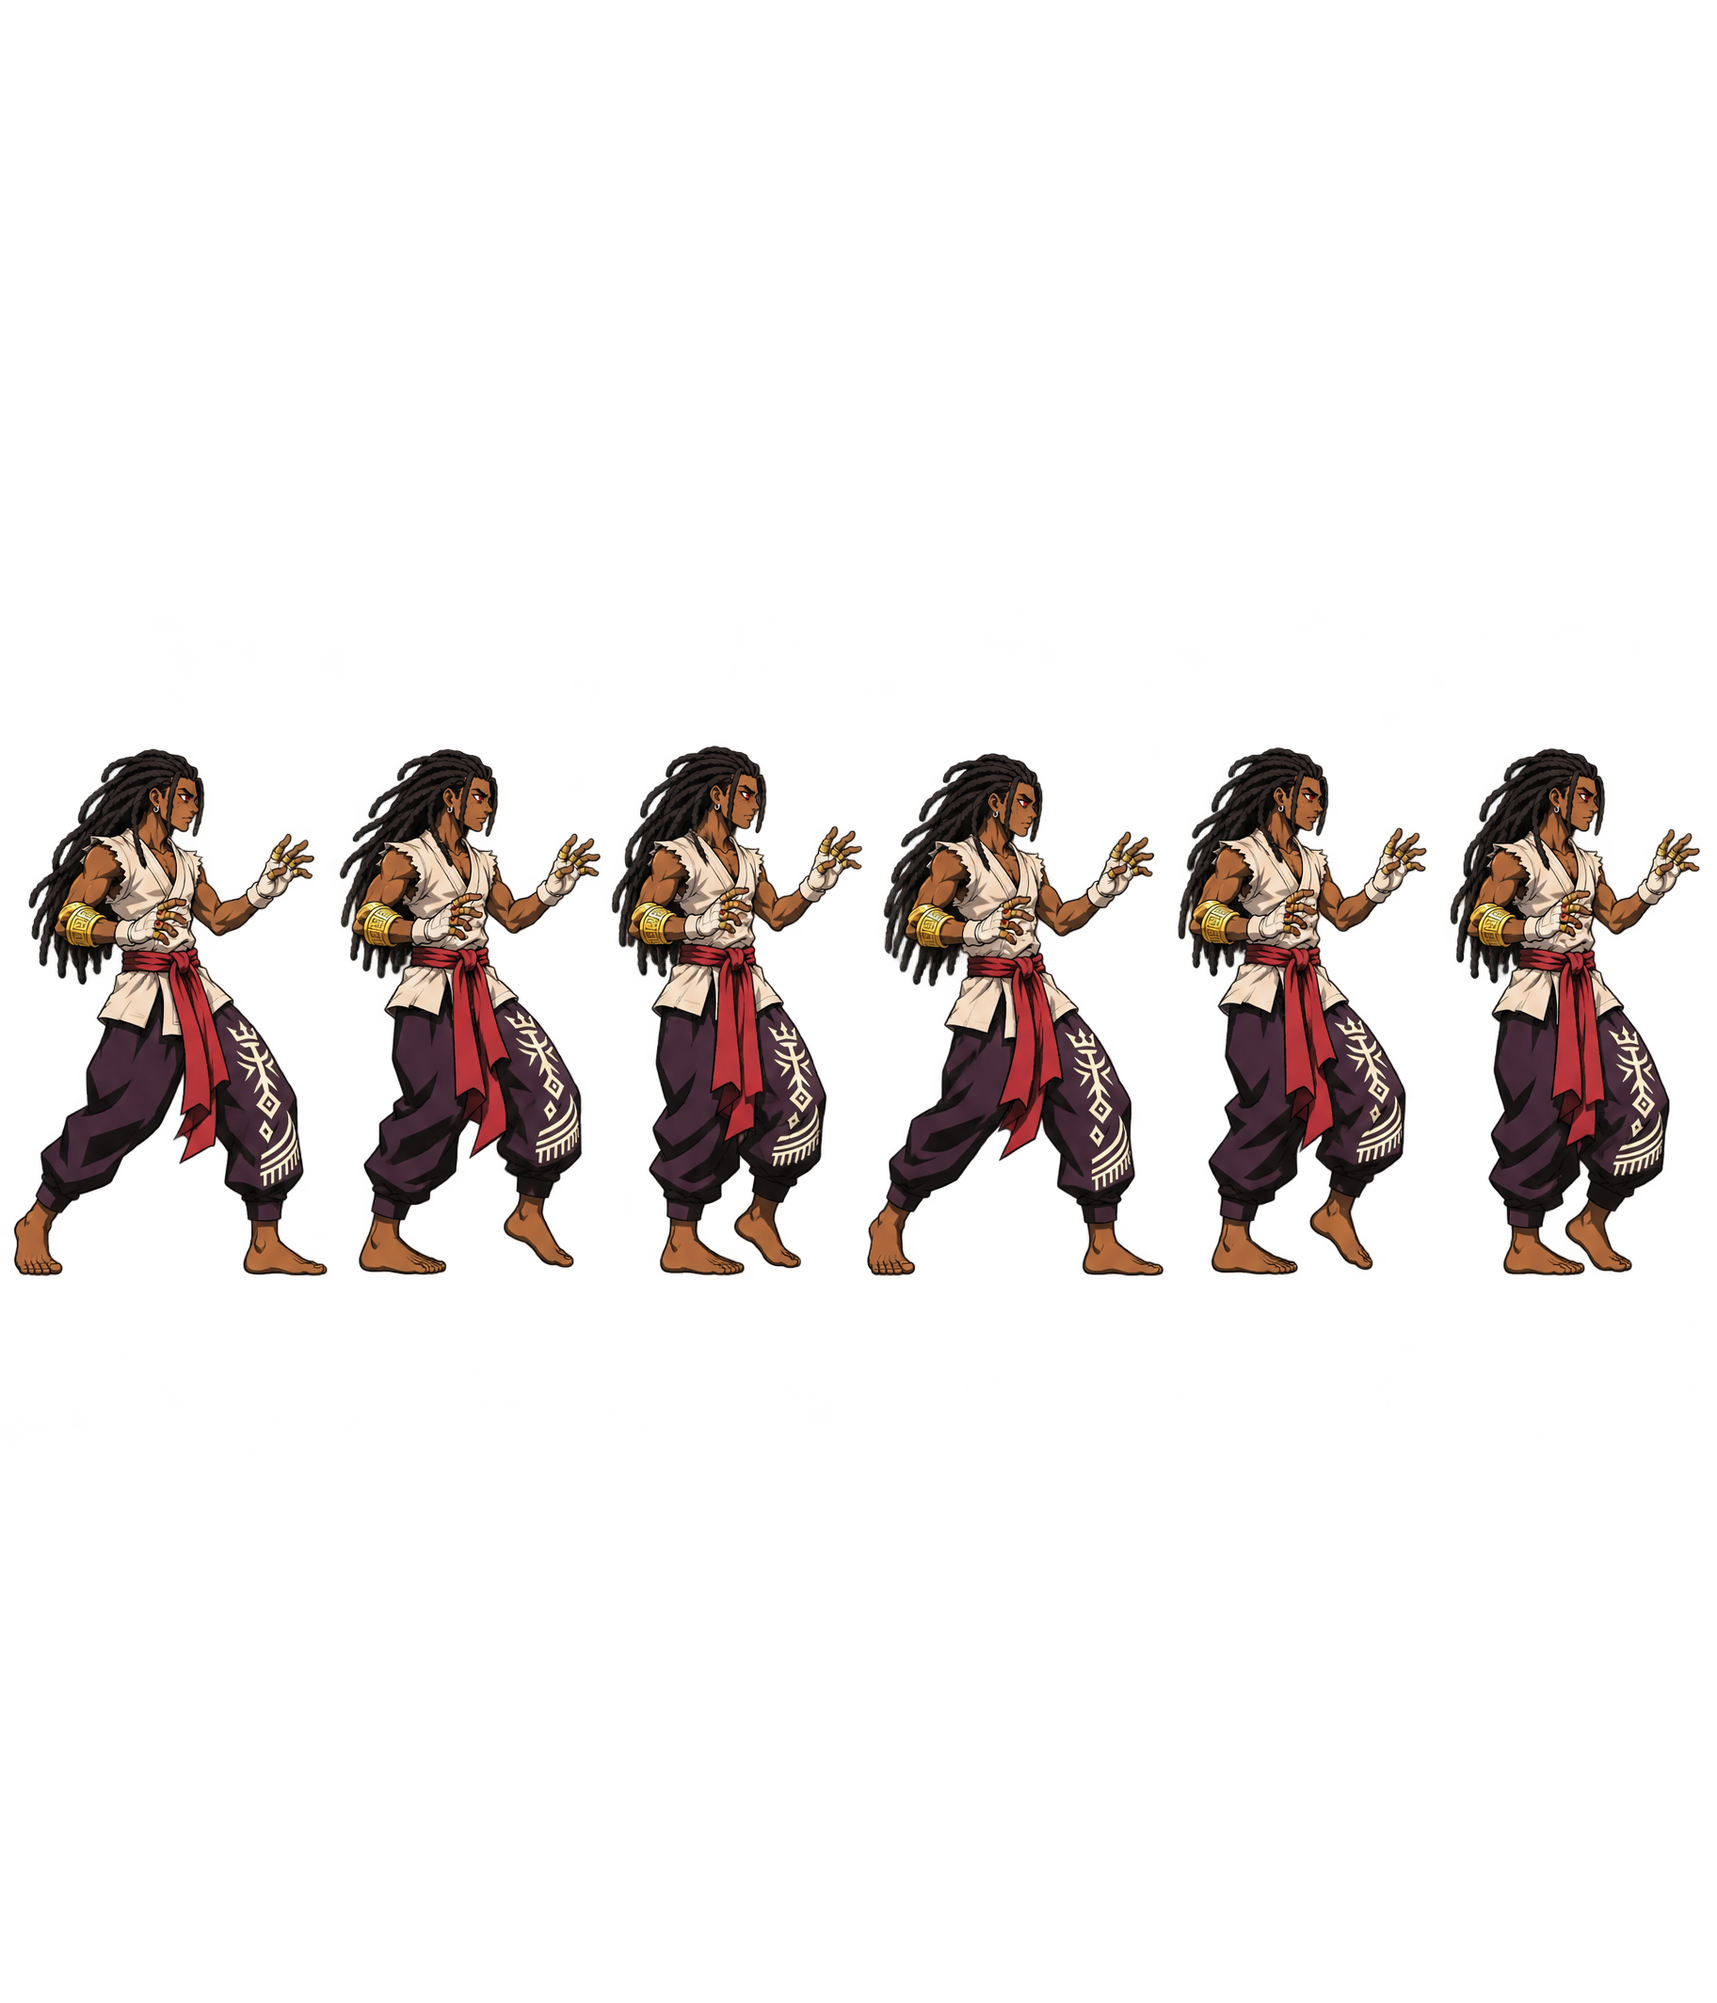
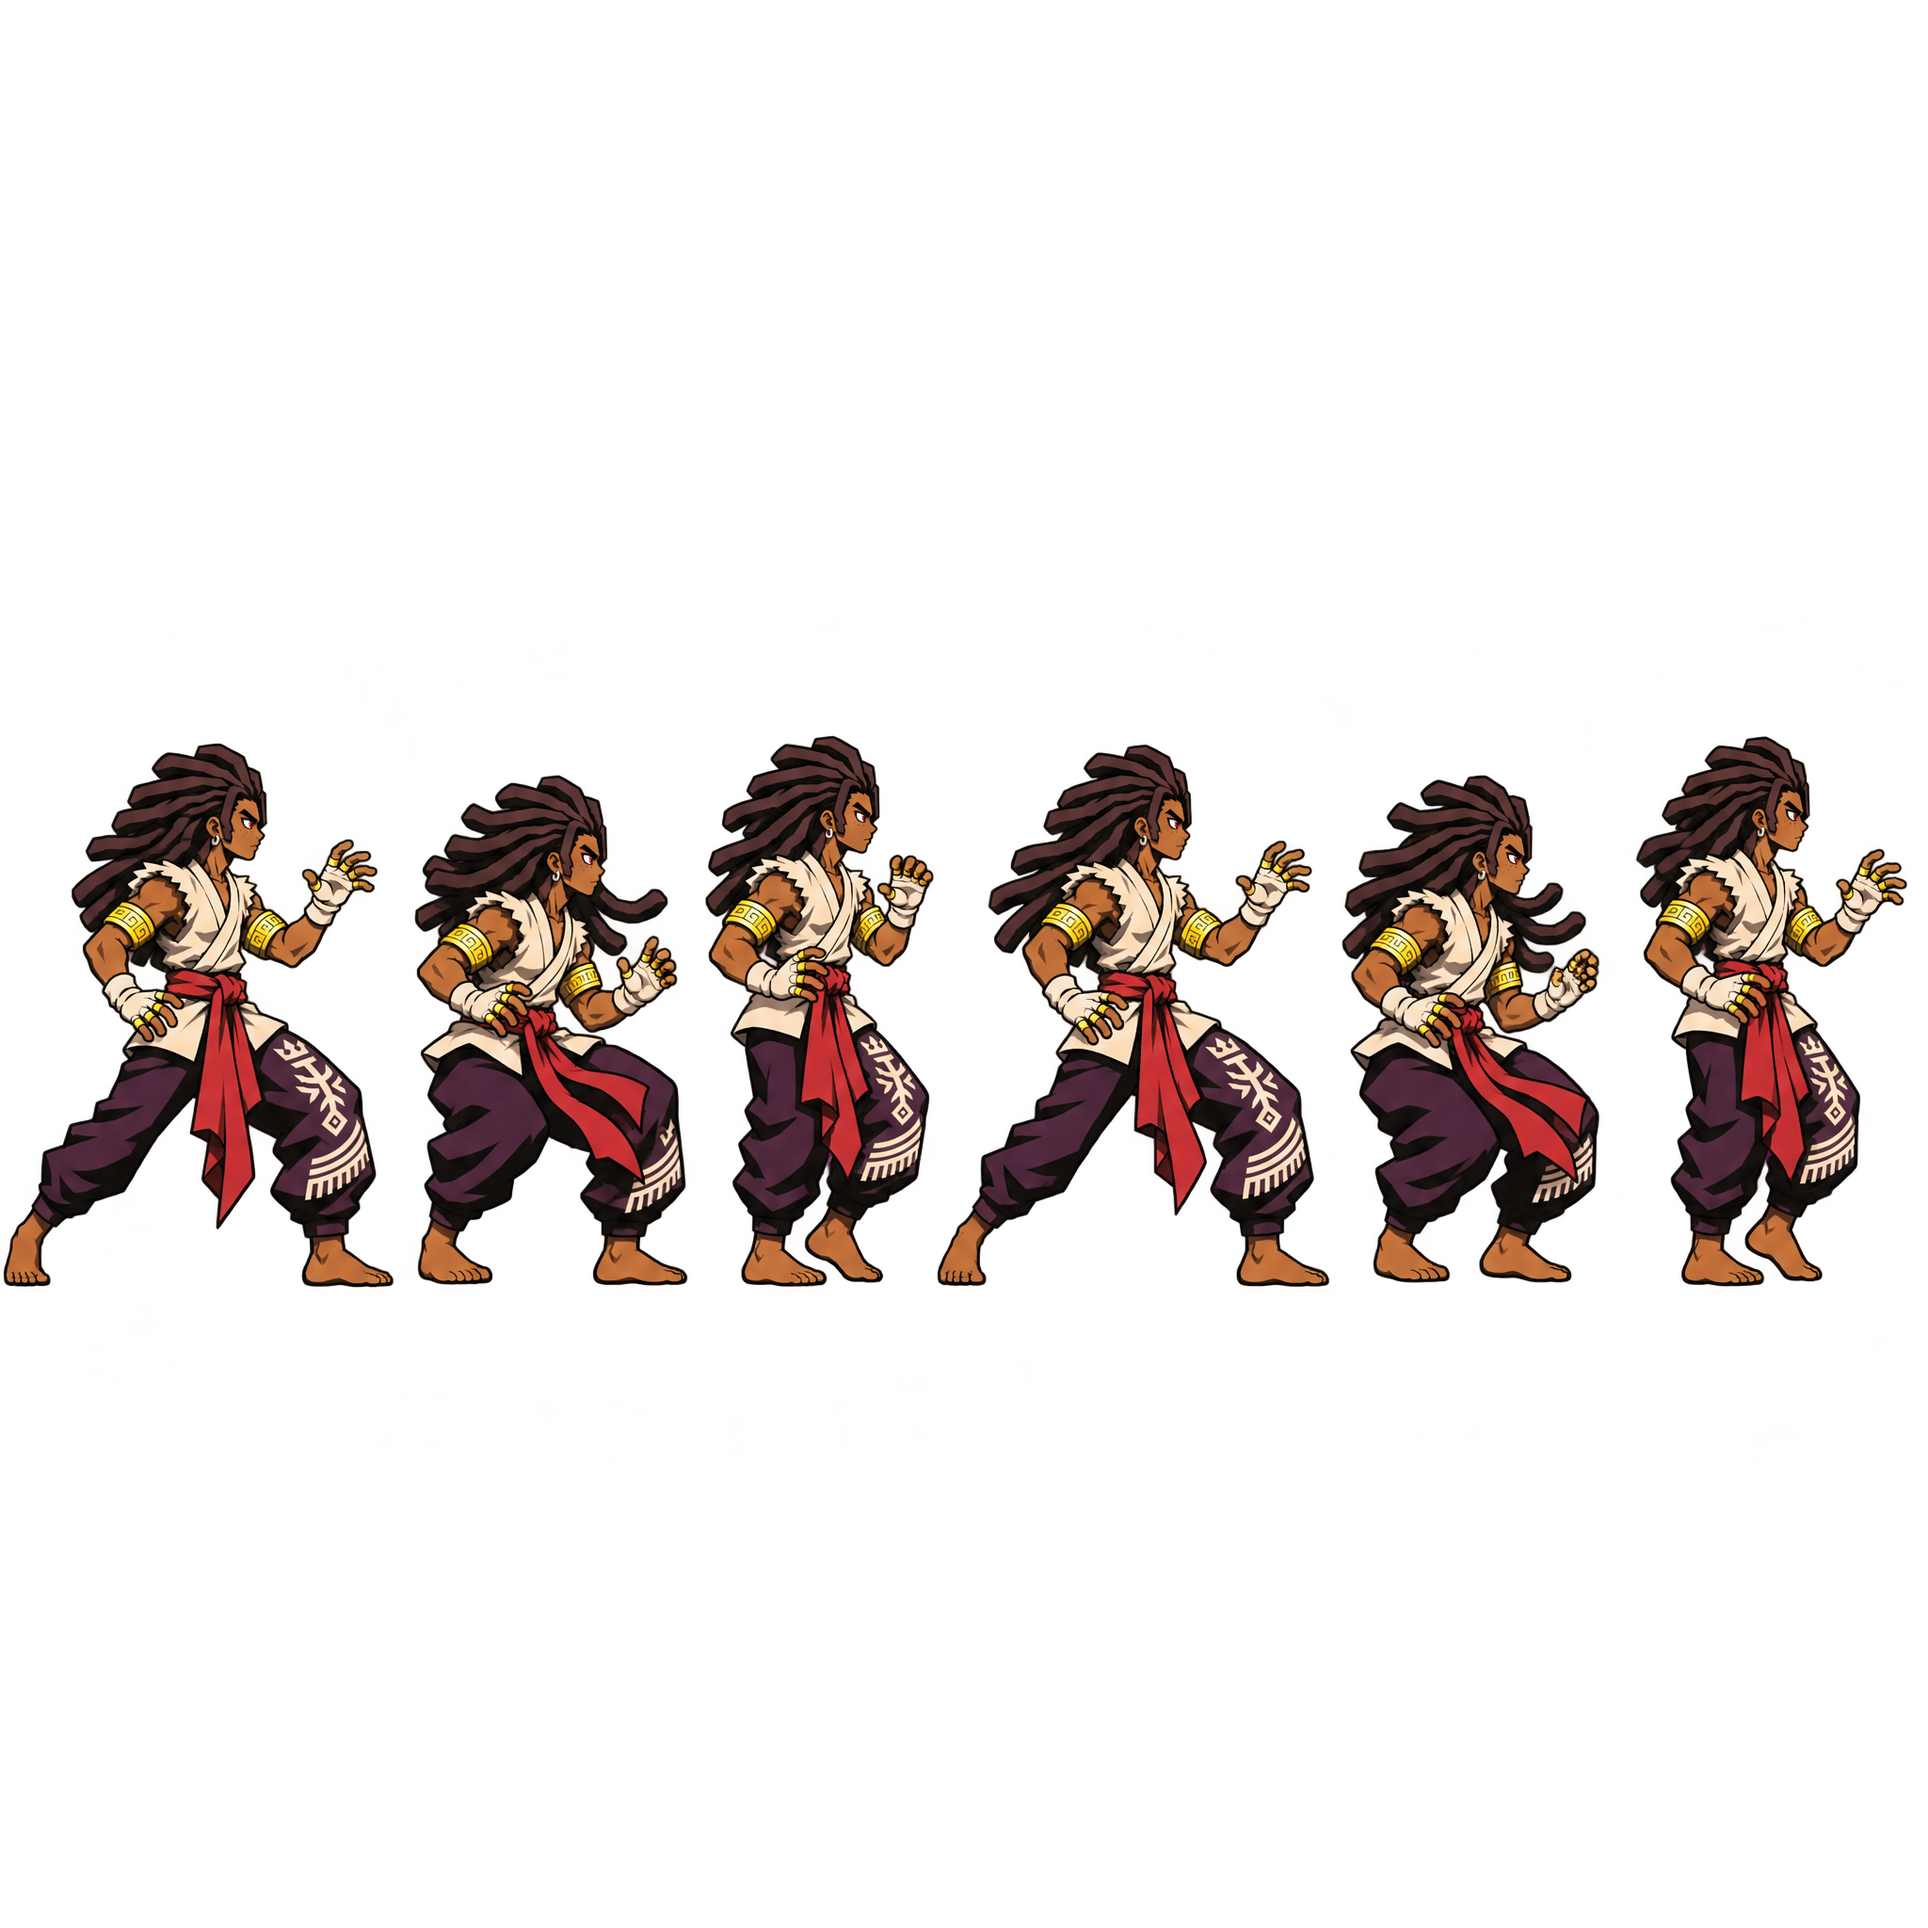
Malik: redrawn idle, walks and light punch; medium (two hits) and heavy punch added
- 5L hits on drawing 3; 5M hits on drawings 4 and 5; 5H hits on drawing 4, drawn frames 5 and 6 left out.
- All sheets cut to one body size. Punch numbers are a first pass from Avner.

Changed region(s): [[0.0, 0.375, 1.0, 0.6875]]

diff --git a/tests/avner-moves.test.js b/tests/avner-moves.test.js
@@ -219,7 +219,7 @@ test('Malik: loads, stands and walks with his own art, and can be put in a match
     assert.deepEqual([...new Set(c.states[name].frames.map((f) => f.sprite.index))], [0, 1, 2, 3, 4, 5], `${name}: all six drawings`);
     assert.ok(fs.existsSync('data/characters/malik/' + c.sheets[name].image));
   }
-  assert.deepEqual(c.commands.map((x) => x.move), ['5L'], 'one attack so far');
+  assert.deepEqual(c.commands.map((x) => x.move).sort(), ['5H', '5L', '5M'], 'three punches so far');
   // Twenty frames holding forward against Avner: he walks, nothing breaks.
   const world = loadWorld('data/characters/malik/malik.toska.json', AVNER);
   const game = createGame(world);
@@ -236,7 +236,7 @@ test('Malik: Standing Light comes out on frame 4, is drawn with the arm out whil
   assert.ok(st.frames.every((f) => f.sprite && f.sprite.sheet === '5L'));
   const active = st.frames.map((f, i) => (f.hit.length ? i : -1)).filter((i) => i >= 0);
   assert.deepEqual(active, [3, 4]);
-  for (const i of active) assert.equal(st.frames[i].sprite.index, 3, 'the full-extension drawing');
+  for (const i of active) assert.equal(st.frames[i].sprite.index, 2, 'hits on drawing 3');
   assert.equal(st.frames.at(-1).sprite.index, 5, 'ends back in his stance');
   const world = loadWorld('data/characters/malik/malik.toska.json', AVNER);
   const game = createGame(world);
@@ -246,4 +246,30 @@ test('Malik: Standing Light comes out on frame 4, is drawn with the arm out whil
   for (const raw of script('5+L 5*8')) step(game, [raw, 0], world);
   assert.equal(game.players[1].health, hp - 400);
   assert.equal(game.players[1].state, 'hitStand');
+});
+
+test('Malik: Standing Medium hits twice, on drawings 4 and 5; Standing Heavy hits on drawing 4 and skips drawn frames 5 and 6', () => {
+  const c = loadChar('data/characters/malik/malik.toska.json');
+  const m = c.states['5M'];
+  const hits = m.frames.map((f, i) => (f.hit.length ? [i, f.hitId, f.sprite.index] : null)).filter(Boolean);
+  assert.deepEqual([...new Set(hits.map((h) => h[1]))].length, 2, 'two separate hits');
+  assert.deepEqual([...new Set(hits.filter((h) => h[1] === hits[0][1]).map((h) => h[2]))], [3], 'first hit on drawing 4');
+  assert.deepEqual([...new Set(hits.filter((h) => h[1] !== hits[0][1]).map((h) => h[2]))], [4], 'second hit on drawing 5');
+  const h = c.states['5H'];
+  assert.equal(c.sheets['5H'].count, 6, 'eight drawn, two left out');
+  assert.deepEqual([...new Set(h.frames.filter((f) => f.hit.length).map((f) => f.sprite.index))], [3], 'hits on drawing 4');
+  assert.deepEqual(h.frames.map((f, i) => (f.hit.length ? i : -1)).filter((i) => i >= 0), [8, 9, 10]);
+
+  // In a match: both hits of 5M connect as one two-hit combo; 5L chains into 5M into 5H.
+  const world = loadWorld('data/characters/malik/malik.toska.json', AVNER);
+  let game = createGame(world);
+  game.players[0].x = -px(30); game.players[1].x = px(30);
+  let most = 0;
+  for (const raw of script('5+M 5*40')) { step(game, [raw, 0], world); most = Math.max(most, game.players[1].combo?.hits ?? 0); }
+  assert.equal(most, 2);
+  game = createGame(world);
+  game.players[0].x = -px(30); game.players[1].x = px(30);
+  most = 0;
+  for (const raw of script('5+L 5*10 5+M 5*24 5+H 5*40')) { step(game, [raw, 0], world); most = Math.max(most, game.players[1].combo?.hits ?? 0); }
+  assert.equal(most, 4, 'light, medium twice, heavy');
 });

diff --git a/CLAUDE.md b/CLAUDE.md
@@ -76,8 +76,8 @@ Current through **Phase 9** (all phases of the brief done), plus **Avner: Brand 
   `data/UniversalEffects/`), rules in `data/system/effects.json` (hit row by the move's base damage, counter one
   size up, block row; additive). `collect` in fight-renderer.js pushes them from hit/counter/block cues; a move's
   own `hitFx` wins; the code-drawn sparks remain for clash, armor, throws, bounces and burst.
-- **Malik** (`data/characters/malik/`): second cast character, so far idle, both walks (art cut with
-  sprite-prep at scale 0.68635, 186 px tall) and Standing Light (5L, first-pass numbers copied from Avner); default stats, placeholder figure for every other state.
+- **Malik** (`data/characters/malik/`): second cast character, so far idle, both walks and 5L / 5M (two hits) / 5H, all art cut to one body
+  size (186 px tall; the two-row punch sheets are laid into one strip first). Punch numbers are a first pass copied from Avner; default stats, placeholder figure for every other state.
 - **Box editor** (title menu, dev server only; `?mode=editor&move=5H&frame=8`): `src/ui/screens/box-editor.js`
   (screen, mouse), `src/editor/box-model.js` (pure: which place in the Toska file a frame's hurt / hit boxes come
   from, mirroring `compileState`; edits; `diffOps`), `scripts/json-edit.mjs` (changes values inside the file's
